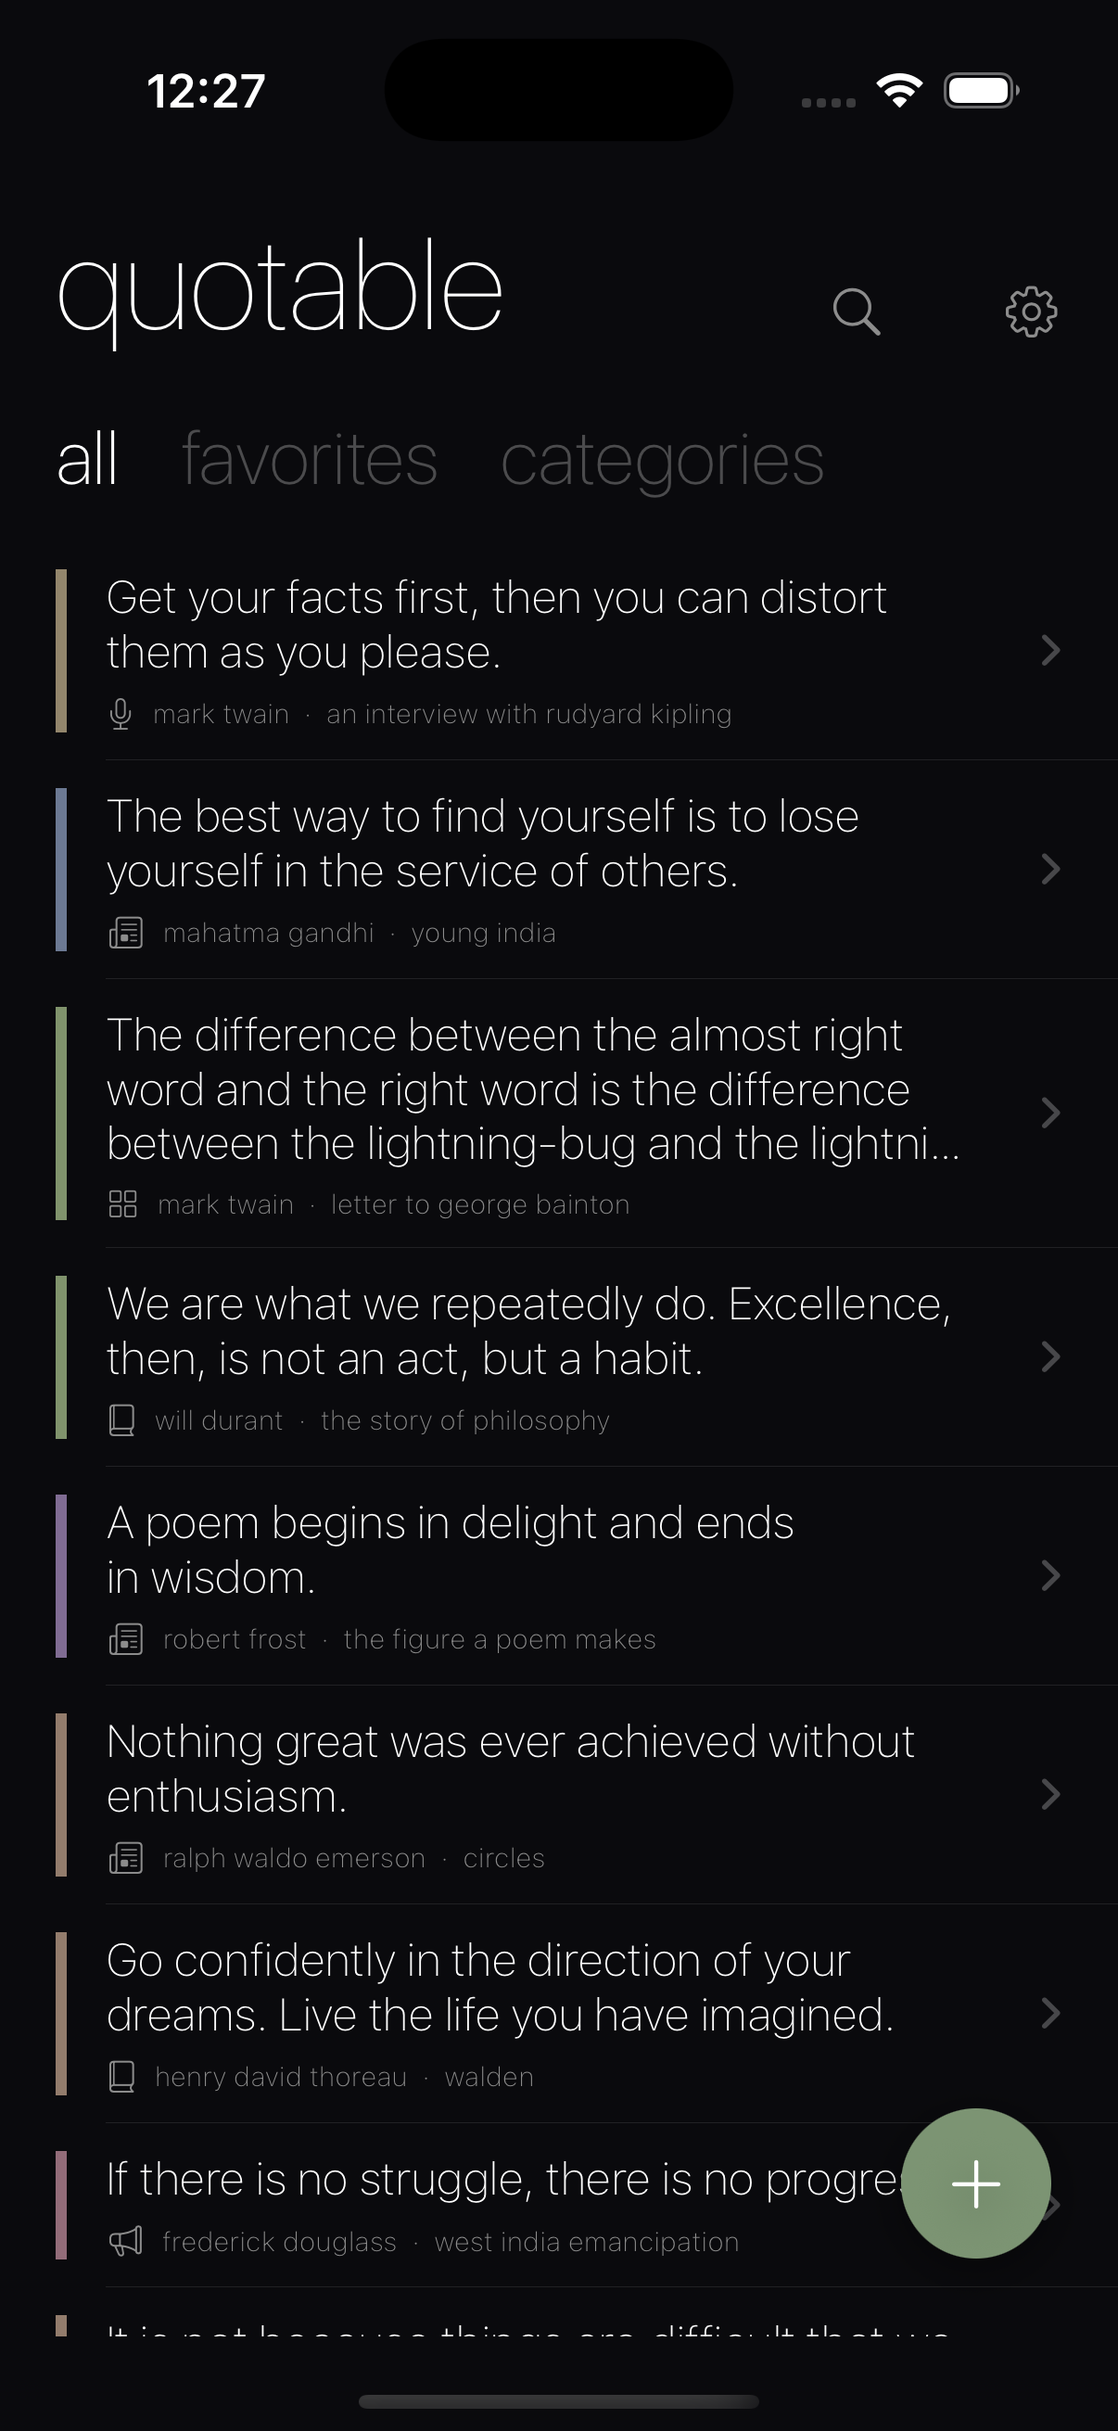
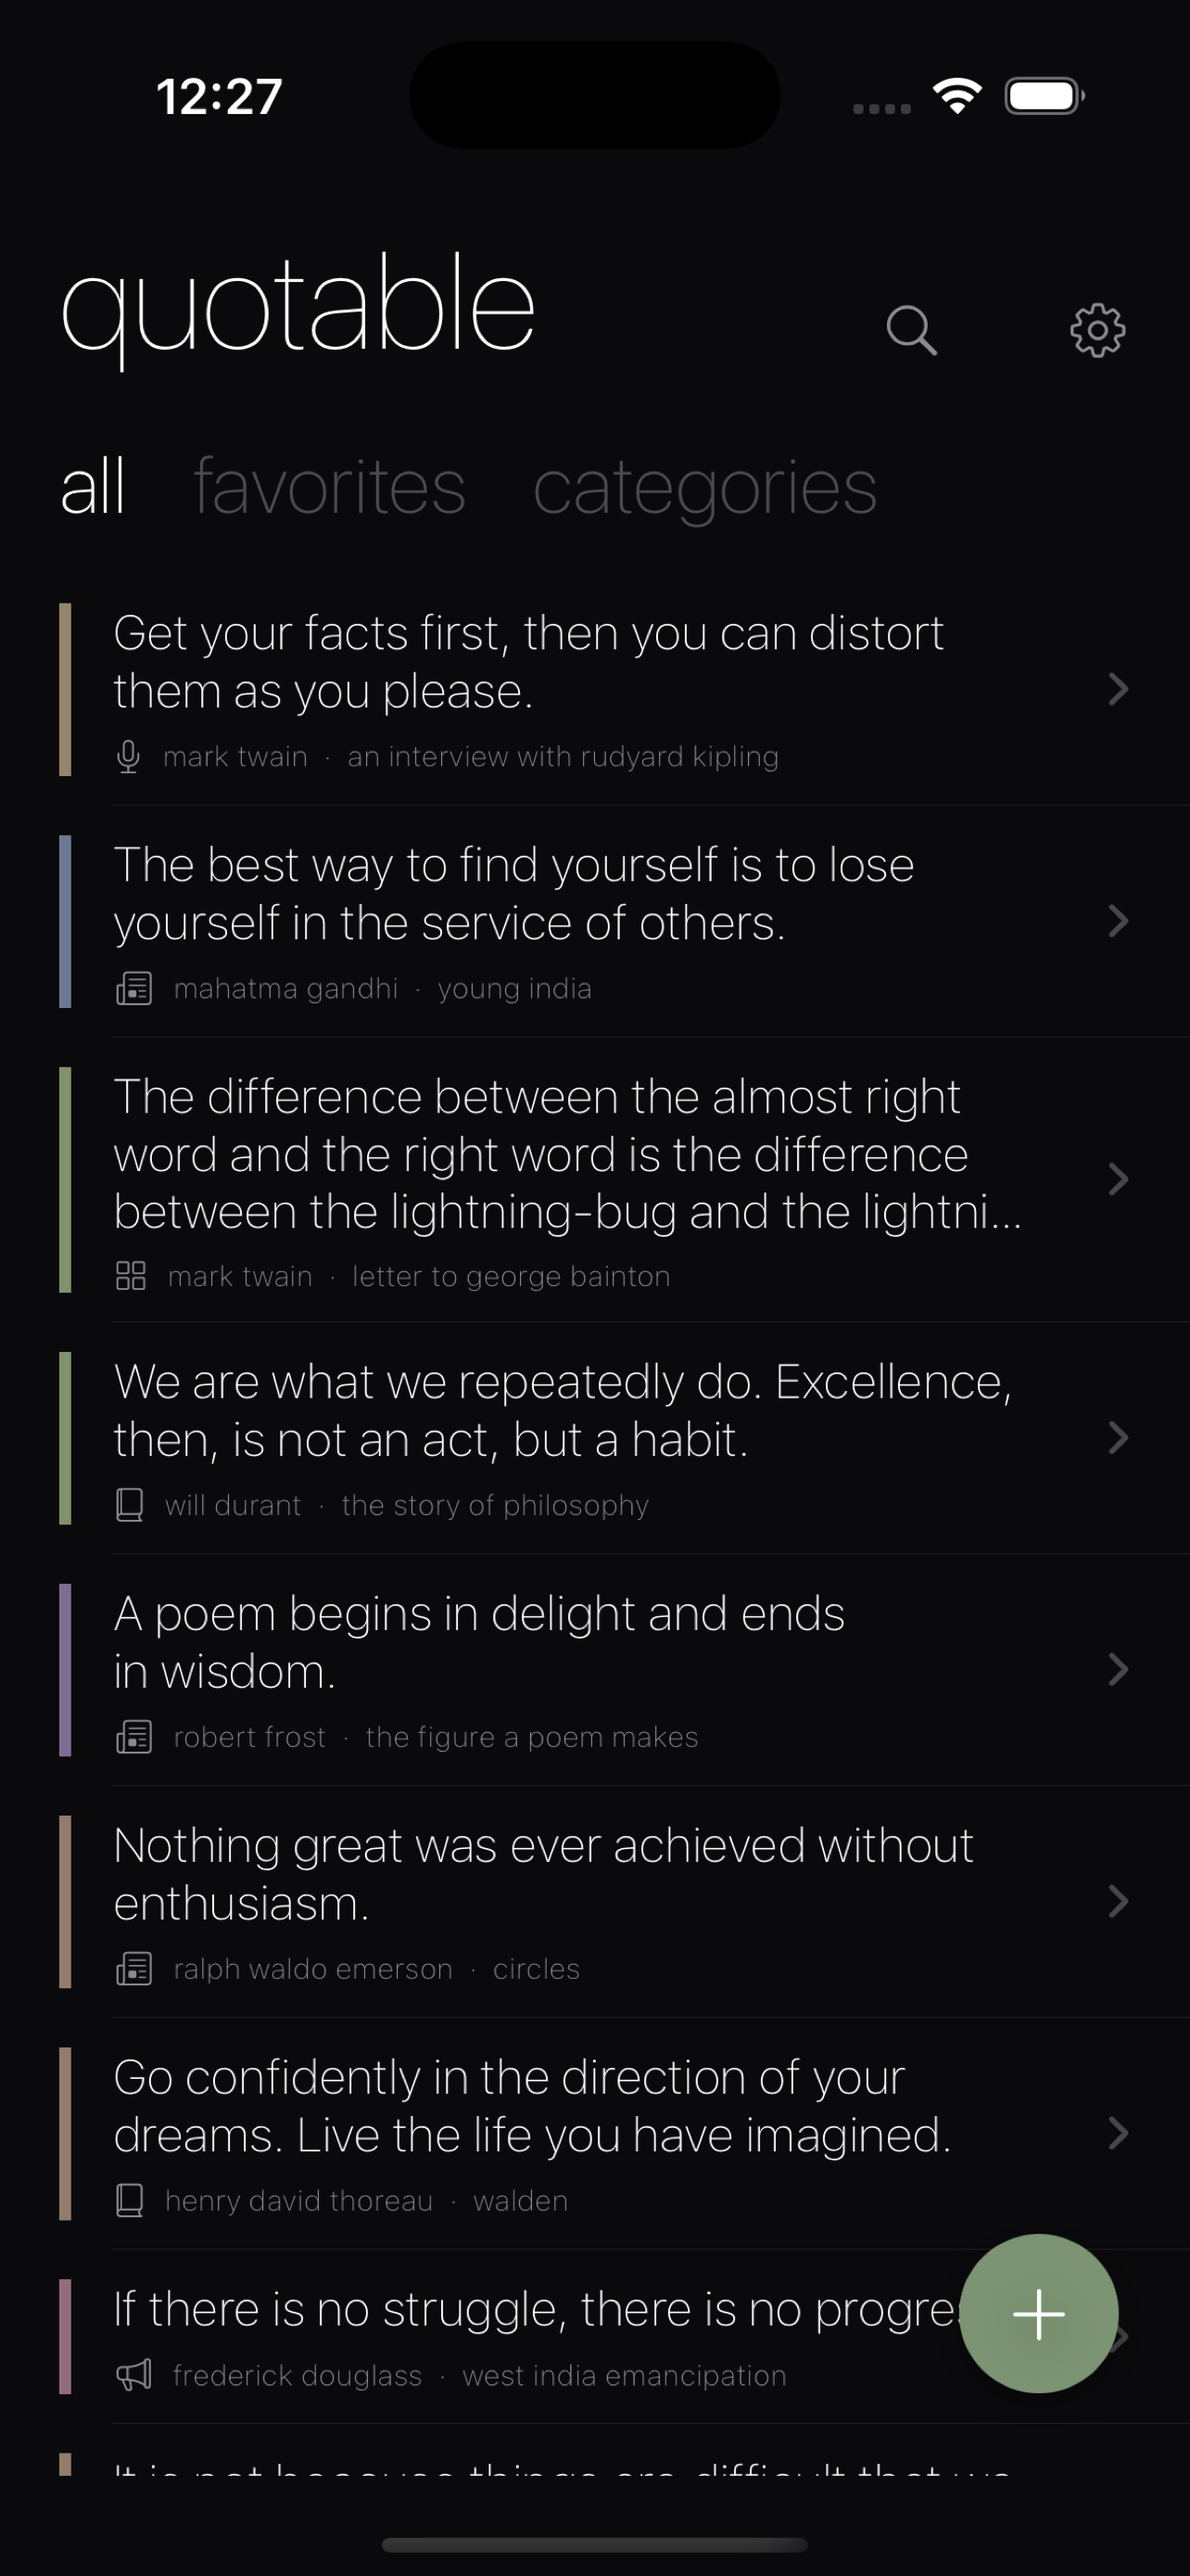
Resize all iPhone screenshots to App Store-compliant 1284x2778
Standardizes every iPhone screenshot across all six apps to one of
Apple's accepted App Store resolutions and updates the screenshot
frame aspect ratio in styles.css to match.

diff --git a/styles.css b/styles.css
@@ -373,7 +373,7 @@ section, main {
 
 .screenshot-frame {
   width: 200px;
-  aspect-ratio: 1206 / 2622;
+  aspect-ratio: 1284 / 2778;
   border: 2px solid var(--border);
   background: var(--bg-panel);
   flex-shrink: 0;
